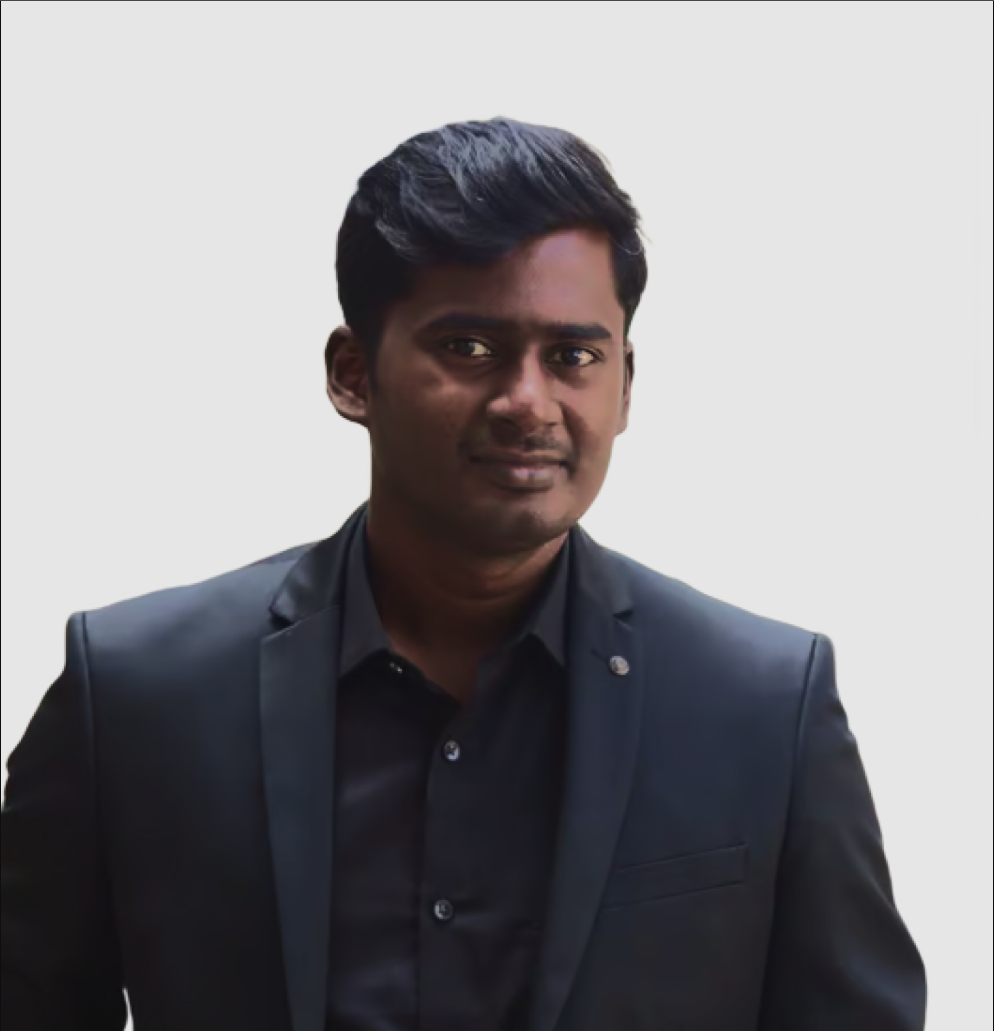
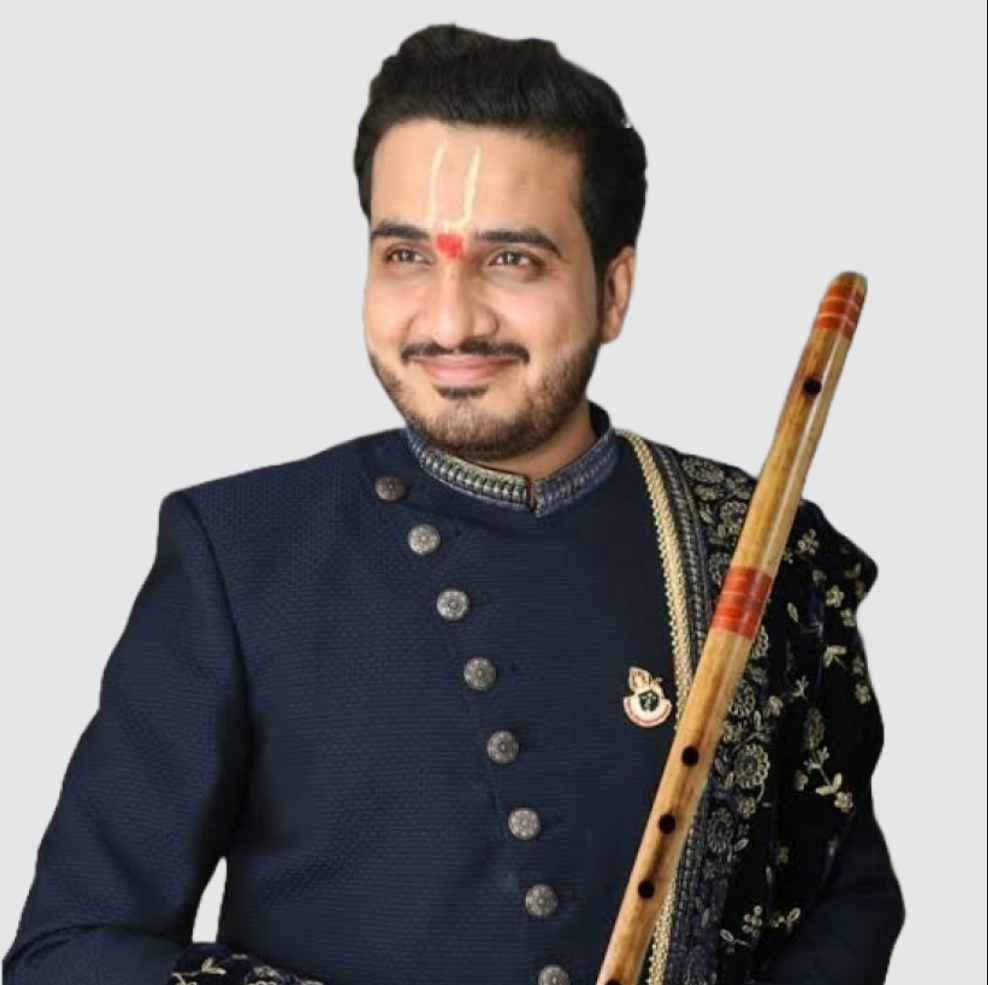
changed some data for past speakers

diff --git a/src/components/PastSpeakers.jsx b/src/components/PastSpeakers.jsx
@@ -19,7 +19,7 @@ export default function PastSpeakers() {
     { id: 6, name: "Dr. Ajay Data", image: "/images/image3.png", description: "Managing Director of Data Group of Industries,visionary entrepreneur who introduced the internet to Rajasthan.As founder of Data XGen Technologies, he developed the world's first linguistic email solution, driving global digital inclusion.", youtube: "https://youtu.be/JfBAk9jj--0?si=zxpNOvTTxz3shQOU", instagram: "https://www.instagram.com/ajaydata?igsh=ZGg2bmxhMzA4ZHNu" },
    { id: 7, name: "Krishnan Sunderarajan", image: "/images/krishna.png", description: "Founder of LOKA, India's first Metaverse app, Krishnan bridges technology and human experience. His Shark Tank success highlights his forward-thinking insights into the future of digital interaction.", youtube: "https://youtu.be/Z9zx3kWLP6c?si=EfKANslHbtSFKjNd", instagram: "https://www.instagram.com/krish_meister?igsh=dnp4dzNmeG9yZjJs" },
     { id: 8, name: "Dr. Lopa Mudraa", image: "/images/image4.png", description: "Security Evangelist with over two decades of expertise in Information Security.Recognized as a 4x Global 100 Chief Information Security Officer awardee.", youtube: "https://youtu.be/To9sxO9W_Kw?si=v7GvKJygJM71JsQ0"},
-    { id: 9, name: "Anand Megalingam", image: "/images/image5.png", description: "He is the visionary Founder and CEO of Space Zone India, is at the forefront of advancing India's space technology through innovative hybrid propulsion systems.", youtube: "https://www.youtube.com/@DrTanuJain", instagram: "https://www.instagram.com/anandmegalingamofficial?igsh=YnJsNG5hdGZweG02" },
+    { id: 9, name: "Chinmay Gaur", image: "/images/image5.png", description: "Indian Classical flutist and composer, blending tradition and modernity. His TEDx talk focuses on the transcendental power of music, showing how it bridges cultural and emotional divides", youtube: "https://youtu.be/KyLREMG86r0?si=ltKFggjT3QB82UqO", instagram: "https://www.instagram.com/igaur_chinmay/" },
     { id: 10, name: "Aabha Hanjura", image: "/images/image6.png", description: "She is a celebrated Indian singer-songwriter and founder of the band Sufistication. Having carved a unique niche in music by seamlessly blending Kashmiri folk, Sufi, and contemporary pop, she has earned nationwide acclaim in her journey.", youtube: "https://youtu.be/omzsDD9-Ur8?si=goIx0wTfNZePIXh3", instagram: "https://www.instagram.com/aabhahanjura?igsh=MXB1YnphcWVqaXVpNQ==" },
     { id: 11, name: "Chetna Balhara", image: "/images/chetna.png", description: "Chetna Balhara is a renowned Indian poet and Instagram influencer known for her heartfelt poetry on love, heartbreak, and everyday struggles. Famous for lines like “Bawal hai ke chore”,her relatable work has captivated audiences. With a strong social media presence and powerful performances.", youtube: "https://youtu.be/357IYm05oQU?si=N5EyhDZmzMzKmn42", instagram: "https://www.instagram.com/chetnabalharaofficial?igsh=bTRmODJoMWx3cWJz" },
     { id: 12, name: "Shelly Jyoti", image: "/images/image7.png", description: "Shelly Jyoti is a contemporary artist, designer, and poet whose work explores Gandhi's principles of nation-building and moral societies. She collaborates with Ajrakh artisans to revive ancient textile traditions, blending khadi and Ajrakh with modern narratives.", youtube: "https://youtu.be/Vu_gdUgJAzk?si=AME2ca9fpCdbIMwn", instagram: "https://www.instagram.com/shellyjyoti1211?igsh=NHU3N2M2dWRlMDc5" },
